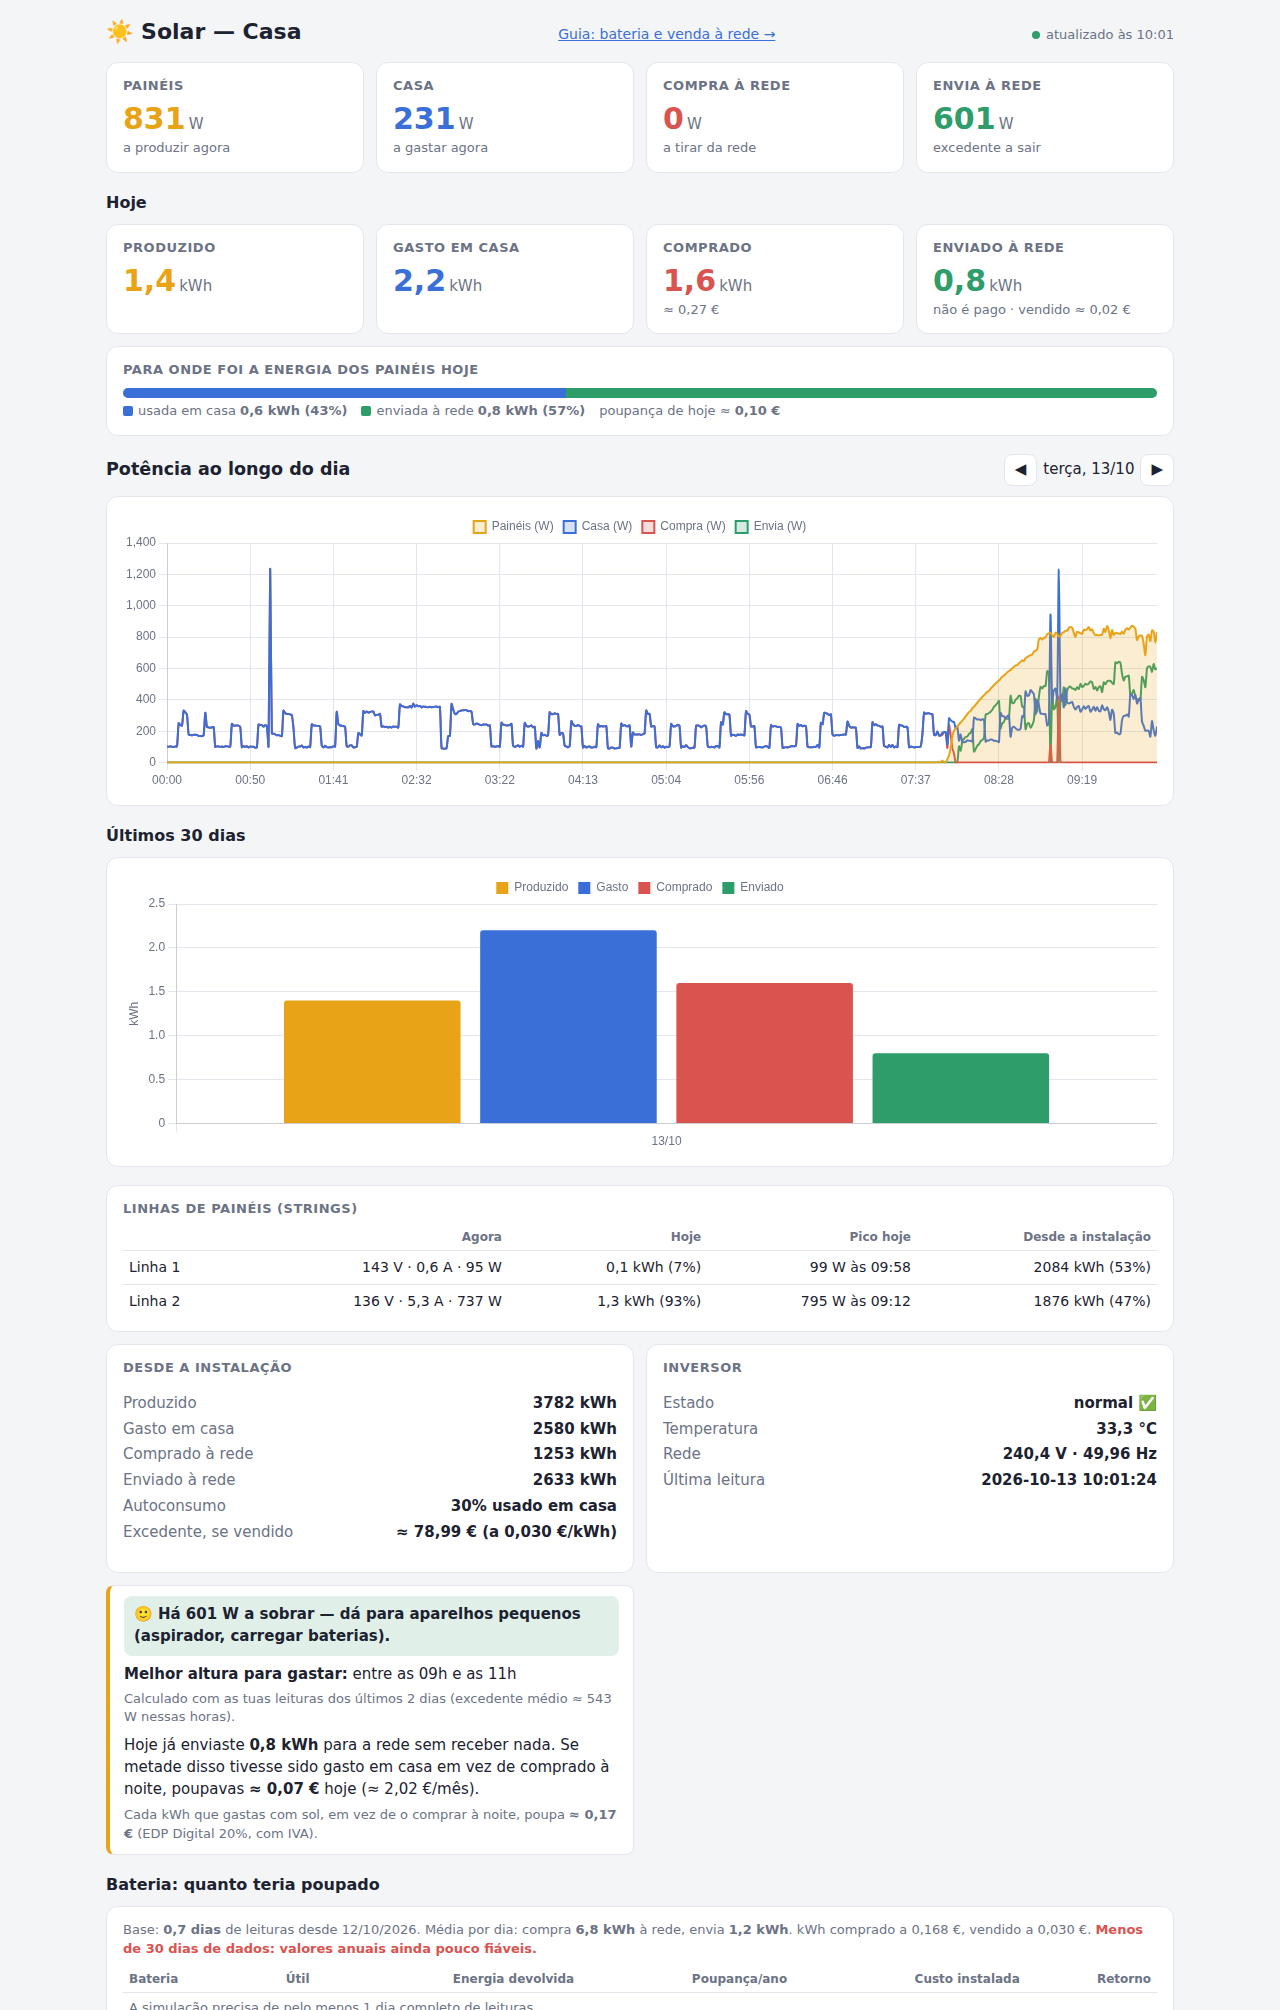
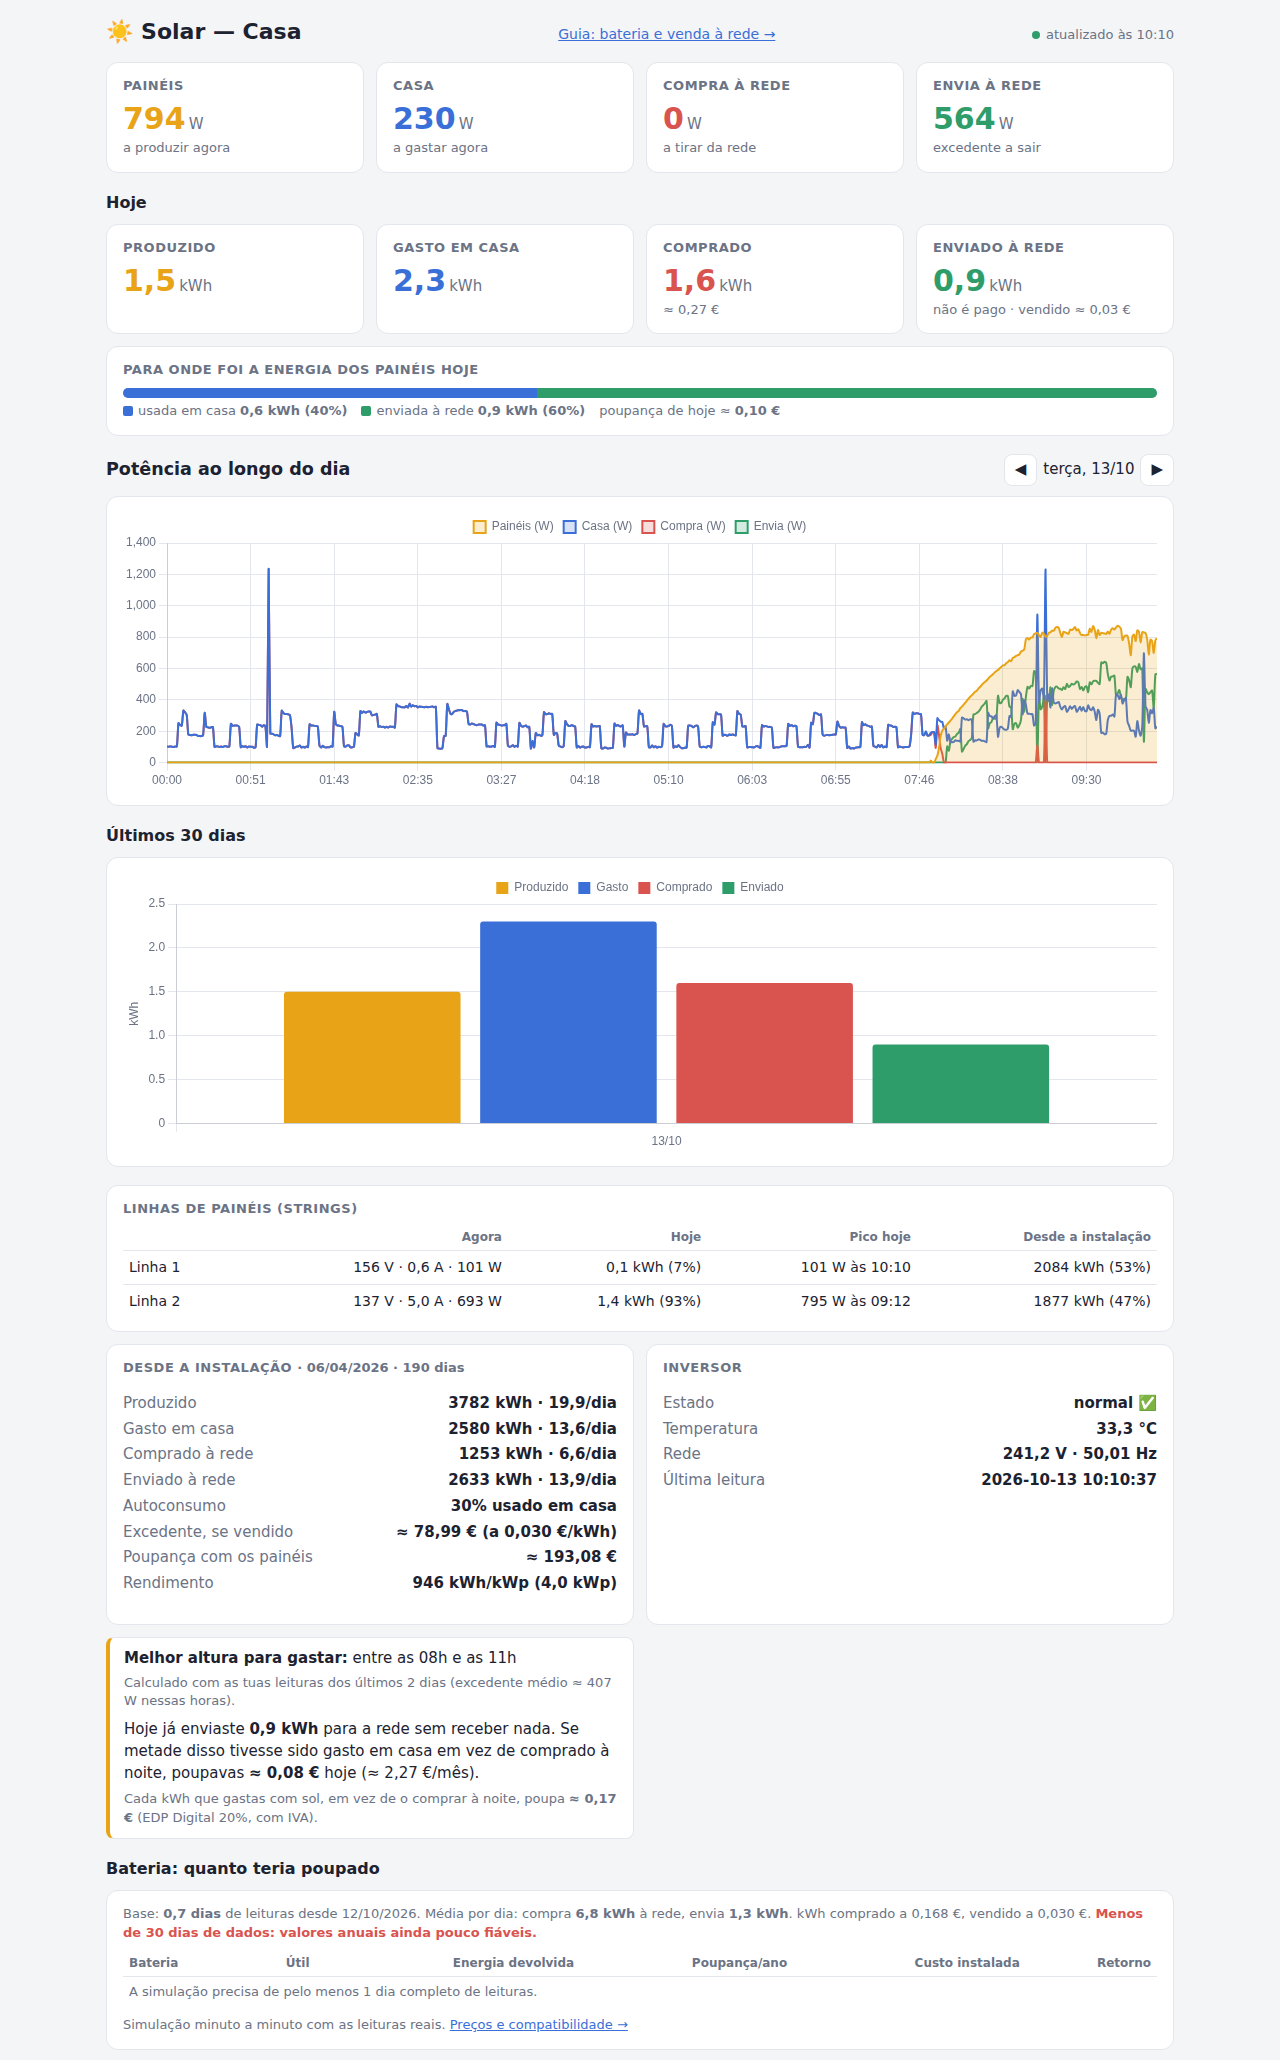
Data de instalação, kWp, comparação com o aluguer e configuração local
- SOLAR_INSTALL_DATE e SOLAR_KWP: médias por dia desde a instalação e rendimento em kWh/kWp
- SOLAR_RENT_MONTH: para um sistema alugado, mostra a poupança por mês contra a renda
- local.env (fora do git), lido pelo serviço, para os valores privados
- Guia: ligar uma bateria a um sistema alugado precisa de autorização do locador
- Corrige o painel vazio (variável declarada duas vezes)

diff --git a/index.html b/index.html
@@ -116,7 +116,7 @@ nav.days button{background:var(--card);color:var(--ink);border:1px solid var(--l
       </table></div>
     </div>
     <div class="card">
-      <h2>Desde a instalação</h2>
+      <h2>Desde a instalação <span id="t_since" style="text-transform:none;letter-spacing:0"></span></h2>
       <dl class="kv">
         <dt>Produzido</dt><dd id="t_pv">–</dd>
         <dt>Gasto em casa</dt><dd id="t_load">–</dd>
@@ -124,6 +124,11 @@ nav.days button{background:var(--card);color:var(--ink);border:1px solid var(--l
         <dt>Enviado à rede</dt><dd id="t_exp">–</dd>
         <dt>Autoconsumo</dt><dd id="t_self">–</dd>
         <dt>Excedente, se vendido</dt><dd id="t_sell">–</dd>
+        <dt>Poupança com os painéis</dt><dd id="t_save">–</dd>
+        <dt>Rendimento</dt><dd id="t_yield">–</dd>
+        <dt class="rent" hidden>Poupança por mês</dt><dd class="rent" hidden id="t_month">–</dd>
+        <dt class="rent" hidden>Aluguer por mês</dt><dd class="rent" hidden id="t_rent">–</dd>
+        <dt class="rent" hidden>Saldo por mês</dt><dd class="rent" hidden id="t_net">–</dd>
       </dl>
     </div>
     <div class="card">
@@ -215,10 +220,23 @@ async function loadNow(){
   const xp = d.export_price || 0;
   $('eexp_eur').textContent = 'não é pago · vendido ≈ ' + eur(d.e_export_today * xp);
   $('t_sell').textContent = '≈ ' + eur(d.e_export_total * xp) + ' (a ' + fmt(xp,3) + ' €/kWh)';
-  $('t_pv').textContent = fmt(d.e_pv_total) + ' kWh';
-  $('t_load').textContent = fmt(d.e_load_total) + ' kWh';
-  $('t_imp').textContent = fmt(d.e_import_total) + ' kWh';
-  $('t_exp').textContent = fmt(d.e_export_total) + ' kWh';
+  const nd = d.install_days || 0;
+  const totDay = (v) => fmt(v) + ' kWh' + (nd ? ' · ' + fmt(v / nd, 1) + '/dia' : '');
+  $('t_since').textContent = d.install_date ? '· ' + d.install_date.split('-').reverse().join('/') + ' · ' + nd + ' dias' : '';
+  $('t_pv').textContent = totDay(d.e_pv_total);
+  $('t_load').textContent = totDay(d.e_load_total);
+  $('t_imp').textContent = totDay(d.e_import_total);
+  $('t_exp').textContent = totDay(d.e_export_total);
+  $('t_save').textContent = '≈ ' + eur((d.e_pv_total - d.e_export_total) * price);
+  if (d.rent_month && nd){
+    const m = (d.e_pv_total - d.e_export_total) * price / nd * 365 / 12;
+    document.querySelectorAll('.rent').forEach(e => e.hidden = false);
+    $('t_month').textContent = '≈ ' + eur(m);
+    $('t_rent').textContent = eur(d.rent_month);
+    $('t_net').textContent = (m >= d.rent_month ? '+' : '') + eur(m - d.rent_month);
+    $('t_net').style.color = m >= d.rent_month ? 'var(--sell)' : 'var(--buy)';
+  }
+  $('t_yield').textContent = d.kwp ? fmt(d.e_pv_total / d.kwp) + ' kWh/kWp (' + fmt(d.kwp,1) + ' kWp)' : '–';
   $('t_self').textContent = d.e_pv_total ? fmt((1 - d.e_export_total/d.e_pv_total)*100) + '% usado em casa' : '–';
   $('i_st').textContent = STATUS[d.status] ?? ('código ' + d.status);
   $('i_t').textContent = fmt(d.temp,1) + ' °C';

diff --git a/guia.html b/guia.html
@@ -61,7 +61,7 @@ ul{margin:6px 0;padding-left:20px}
     <div class="card fact"><div class="l">Comprado à rede</div><div class="n" id="f_imp">–</div></div>
     <div class="card fact"><div class="l">Usado em casa</div><div class="n" id="f_self">–</div></div>
   </div>
-  <div class="sub">Contadores do inversor desde a instalação.</div>
+  <div class="sub" id="f_note">Contadores do inversor desde a instalação.</div>
 
   <!-- ================================================================ BATERIA -->
   <h2 id="bateria">🔋 Bateria</h2>
@@ -93,9 +93,10 @@ ul{margin:6px 0;padding-left:20px}
     </table>
     <ul class="sub">
       <li>Instalação (eletricista, cabos DC, configuração): conte com mais <b>300 – 600 €</b>. A simulação usa 2 100 € (5 kWh) e 3 500 € (10 kWh) no total.</li>
-      <li>Ligam diretamente ao inversor (DC). Não é preciso outro inversor. O contador de energia já está instalado: o inversor lê a compra e a venda à rede.</li>
+      <li>Ligam diretamente ao inversor (DC). Não é preciso outro inversor. O contador que a bateria exige (Growatt SPM-E) já está instalado.</li>
       <li>Na primeira ligação o inversor pode pedir atualização de firmware (erro 217).</li>
       <li>Para ter luz durante um corte de rede é preciso uma <i>backup box</i> à parte.</li>
+      <li><b>Sistema alugado ou em subscrição:</b> o equipamento é do locador. Ligar uma bateria ao inversor é trabalho no sistema e precisa de autorização escrita dele.</li>
     </ul>
     <div class="sub">Preços: <a href="https://sunshop.pt/en/collections/bateria-growatt">sunshop.pt</a> ·
       <a href="https://www.stralendgroen.nl/en/product/growatt-apx-battery-system-for-min-xh/">stralendgroen.nl (APX)</a> ·
@@ -189,6 +190,10 @@ async function j(u){ const r = await fetch(u, {cache:'no-store'}); return r.json
   $('f_exp').textContent = fmt(n.e_export_total) + ' kWh';
   $('f_imp').textContent = fmt(n.e_import_total) + ' kWh';
   $('f_self').textContent = n.e_pv_total ? fmt((1 - n.e_export_total / n.e_pv_total) * 100) + '%' : '–';
+  const nd = n.install_days;
+  if (nd) $('f_note').innerHTML = `Contadores do inversor desde ${n.install_date.split('-').reverse().join('/')} (${nd} dias). Por dia: `
+    + `produz <b>${fmt(n.e_pv_total/nd,1)} kWh</b>, compra <b>${fmt(n.e_import_total/nd,1)} kWh</b>, envia <b>${fmt(n.e_export_total/nd,1)} kWh</b>. `
+    + `${fmt(n.kwp,1)} kWp: 8 × JA Solar JAM66S30-500/MR em 2 linhas de 4 · inversor Growatt MIN 4200TL-XH · contador Growatt SPM-E.`;
 
   // venda: valor do que já foi enviado, a três preços de referência
   const ex = n.e_export_total || 0;

diff --git a/solar.py b/solar.py
@@ -24,6 +24,11 @@ HTTP_PORT = int(os.environ.get("SOLAR_HTTP_PORT", "8096"))
 # Atenção: o desconto acaba em Out 2027 (passa a 0,1671 €/kWh s/IVA).
 PRICE_KWH = float(os.environ.get("SOLAR_PRICE_KWH", "0.168"))  # € por kWh comprado, com IVA
 PRICE_LABEL = os.environ.get("SOLAR_PRICE_LABEL", "EDP Digital 20%")
+# Instalação: 8 painéis JA Solar JAM66S30-500/MR (2 linhas de 4), contador Growatt SPM-E
+INSTALL_DATE = os.environ.get("SOLAR_INSTALL_DATE", "2026-04-06")
+KWP = float(os.environ.get("SOLAR_KWP", "4.0"))
+# Sistema alugado: renda mensal com IVA (0 = sistema próprio)
+RENT_MONTH = float(os.environ.get("SOLAR_RENT_MONTH", "0"))
 # Venda do excedente: indexado ao OMIE menos a comissão do comercializador.
 # OMIE médio 2025 entre as 9h e as 18h ≈ 0,035 €/kWh, menos 25% ≈ 0,026 €/kWh.
 EXPORT_PRICE = float(os.environ.get("SOLAR_EXPORT_PRICE", "0.03"))  # € por kWh vendido
@@ -316,8 +321,11 @@ class Handler(BaseHTTPRequestHandler):
                     if t[k] is not None and k not in t["partial"]:
                         now[c] = t[k]
             now.update(api_strings(datetime.now().strftime("%Y-%m-%d")))
+            days = (datetime.now() - datetime.strptime(INSTALL_DATE, "%Y-%m-%d")).days
             return self._send(200, json.dumps({**now, "price": PRICE_KWH, "price_label": PRICE_LABEL,
-                                               "export_price": EXPORT_PRICE}), "application/json")
+                                               "export_price": EXPORT_PRICE, "install_date": INSTALL_DATE,
+                                               "install_days": days, "kwp": KWP,
+                                               "rent_month": RENT_MONTH}), "application/json")
         if path == "/api/battery":
             n = max(1, min(int(params.get("days", "30")), 400))
             return self._send(200, json.dumps(api_battery(n)), "application/json")

diff --git a/README.md b/README.md
@@ -1,6 +1,6 @@
 # ☀ Growatt — painel solar local
 
-Painel web simples para acompanhar um inversor **Growatt MIN 4200TL-XH**. Mostra a produção, o consumo da casa e as trocas com a rede.
+Painel web simples para acompanhar um inversor **Growatt MIN 4200TL-XH** (instalação de 4,0 kWp: 8 painéis JA Solar JAM66S30-500/MR em 2 linhas de 4, contador Growatt SPM-E). Mostra a produção, o consumo da casa e as trocas com a rede.
 
 O programa lê o inversor diretamente por **Modbus TCP**, através do dongle Wi-Fi, e **apenas lê**: nunca escreve nada no inversor. Não usa a cloud da Growatt e não precisa de dependências externas, só da biblioteca padrão do Python 3. Corre num Raspberry Pi como serviço `systemd` de utilizador.
 
@@ -197,11 +197,16 @@ Tudo se configura por variáveis de ambiente. Para as definir, acrescente linhas
 | `SOLAR_HTTP_PORT` | `8096` | A porta da página web |
 | `SOLAR_PRICE_KWH` | `0.168` | O preço do kWh comprado, em €, com IVA |
 | `SOLAR_PRICE_LABEL` | `EDP Digital 20%` | O nome da tarifa que aparece na página |
+| `SOLAR_INSTALL_DATE` | `2026-04-06` | A data de instalação, para as médias por dia |
+| `SOLAR_KWP` | `4.0` | A potência dos painéis em kWp |
+| `SOLAR_RENT_MONTH` | `0` | A renda mensal, se o sistema for alugado. Mostra a poupança contra o aluguer |
 | `SOLAR_EXPORT_PRICE` | `0.03` | O preço do kWh vendido à rede, em € |
 | `SOLAR_BATTERY_COST_5` | `2100` | O custo de uma bateria de 5 kWh já instalada, em € |
 | `SOLAR_BATTERY_COST_10` | `3500` | O custo de uma bateria de 10 kWh já instalada, em € |
 
-Exemplo:
+Os valores que não devem ir para o git ficam em `~/growatt/local.env`, uma linha `SOLAR_...=valor` cada. O serviço lê esse ficheiro, e o `.gitignore` deixa-o fora do repositório.
+
+Exemplo no `solar.service`:
 
 ```ini
 [Service]
